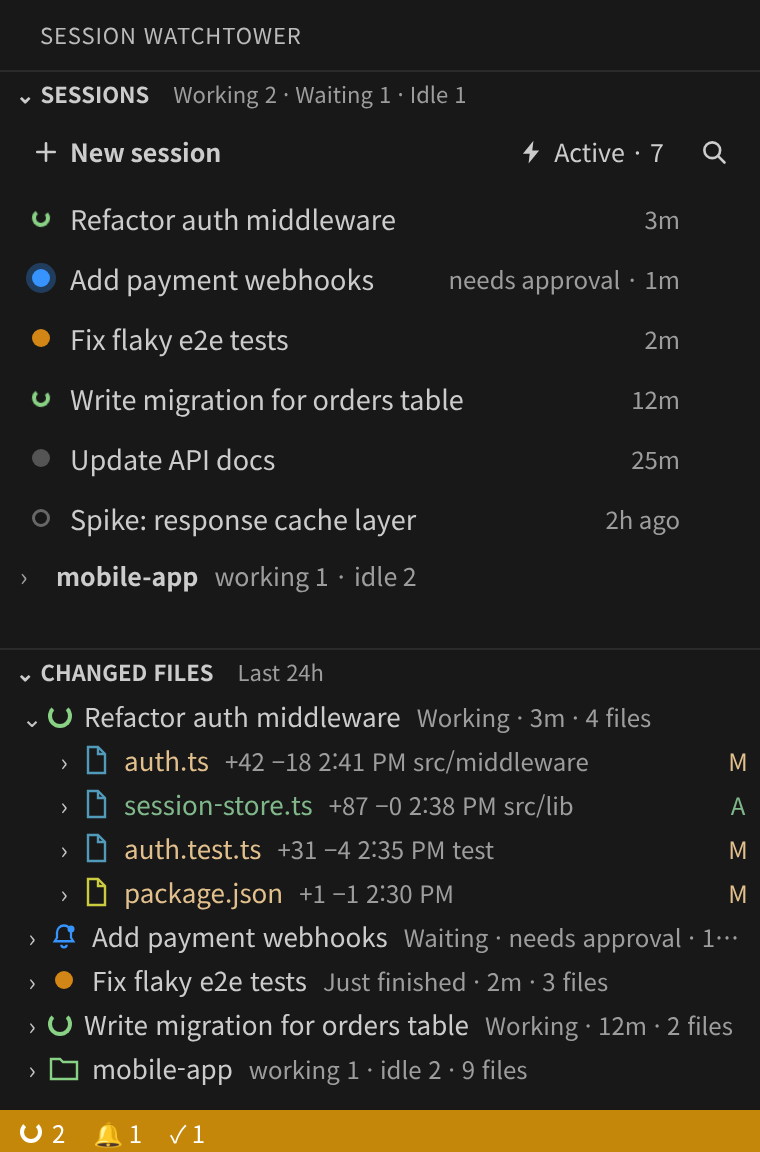
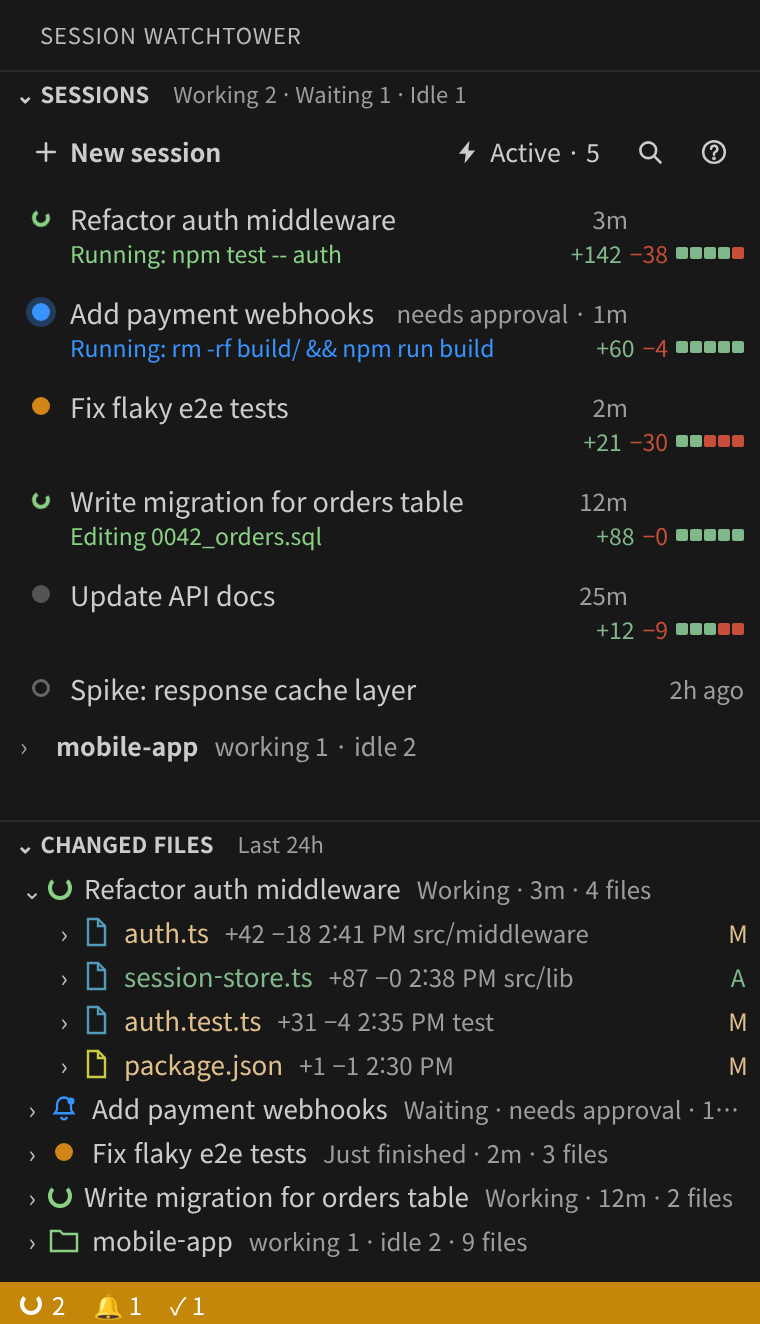
Show what each session is doing now, its change size, and a color legend
Version 0.9.0 adds a second line under working sessions and a "?" legend.

- Problem: you had to open a session to know what it was doing, and the colors were not explained anywhere.
- Cause: only the session state was shown, and finished steps could look unfinished.
- Change: show the current step (Running / Editing / Thinking) and +added/-removed lines with a small bar; add a color legend; mention Codex in the description; skip Claude Code's API request copies in the log, which had been read as new tool calls.
- Check: real session logs (finished steps now marked finished, first read back to about 4 s), dark and light theme renders, packaged with vsce 4.0.0.

diff --git a/extension.js b/extension.js
@@ -130,10 +130,35 @@ function stateOf(s) {
 }
 
 
+// "지금 하는 일": 마지막 도구 호출을 쉬운 말로(진행 중일 때만 의미가 있음)
+function activityText(a) {
+  if (!a || !a.tool) return '';
+  const arg = a.arg || '';
+  switch (a.tool) {
+    case 'Bash': case 'exec': return arg ? L('Running: {0}', arg) : L('Running a command');
+    case 'Edit': case 'Write': case 'MultiEdit': case 'NotebookEdit': case 'apply_patch': return arg ? L('Editing {0}', arg) : L('Editing files');
+    case 'Read': return arg ? L('Reading {0}', arg) : L('Reading files');
+    case 'Grep': case 'Glob': return arg ? L('Searching {0}', arg) : L('Searching');
+    case 'Agent': case 'Task': return arg ? L('Subagent: {0}', arg) : L('Running a subagent');
+    case 'WebSearch': return arg ? L('Web search: {0}', arg) : L('Searching the web');
+    case 'WebFetch': return arg ? L('Opening {0}', arg) : L('Opening a web page');
+    default: return arg ? `${a.tool}: ${arg}` : a.tool;
+  }
+}
+
+// 작업 중이면 진행 중인 도구, 도구가 끝났으면 "생각 중", 기다림이면 기다리는 도구
+function nowText(s, st) {
+  if (st.key !== 'busy' && st.key !== 'waiting') return '';
+  if (s.activity && !s.activity.done) return activityText(s.activity);
+  return st.key === 'busy' ? L('Thinking…') : '';
+}
+
 function sessionTooltip(s, st) {
+  const now = nowText(s, st);
   return [
     s.title,
     L('Status: {0}', st.label) + (s.statusSince ? ' ' + L('(since {0})', fmtTime(s.statusSince, true)) : ''),
+    now ? L('Now: {0}', now) : null,
     s.address ? L('Address: {0}', s.address) : null,
     s.cwd ? L('Folder: {0}', s.cwd) : null,
     L('Last log: {0}', fmtTime(s.lastActivity, true)),
@@ -423,11 +448,24 @@ function sessionRow(s) {
   // 제목이 잘리지 않게 오른쪽에는 시간만(상태는 점 색). 사용자가 해야 할 일이 있는 "기다림"만 글자도 붙인다.
   const meta = st.key === 'waiting' ? [st.short, st.time].filter(Boolean).join(' · ') : st.time;
   const m = model.find((x) => x.sid === s.sid);
-  return { sid: s.sid, title: s.title, state: st.key, meta, tip: sessionTooltip(s, st) + '\n' + hint, canOpen, alive: !!s.alive, codex, files: m ? m.files.length : 0 };
+  const add = m ? m.files.reduce((a, f) => a + (f.add || 0), 0) : 0;
+  const del = m ? m.files.reduce((a, f) => a + (f.del || 0), 0) : 0;
+  return {
+    sid: s.sid, title: s.title, state: st.key, meta, tip: sessionTooltip(s, st) + '\n' + hint, canOpen, alive: !!s.alive, codex,
+    files: m ? m.files.length : 0, add, del, now: nowText(s, st),
+  };
 }
 
 function sessionsPayload() {
-  const strings = { showChanges: L('Show changed files'), review: L('Review all changes'), newSession: L('New session'), active: L('Active'), search: L('Search sessions'), noMatch: L('No matching sessions') };
+  const strings = {
+    showChanges: L('Show changed files'), review: L('Review all changes'), newSession: L('New session'), active: L('Active'),
+    search: L('Search sessions'), noMatch: L('No matching sessions'), legend: L('What the colors mean'),
+    lgSessions: L('Sessions'), lgFiles: L('Changed files'), lgRow: L('Under each session'),
+    lgBusy: L('Working'), lgWaiting: L('Waiting for you (approval or answer)'), lgDone: L('Just finished (less than 10 minutes ago)'), lgIdle: L('Idle'), lgOff: L('Off (no Claude process)'),
+    lgA: L('Created in this session'), lgM: L('Modified in this session'), lgD: L('Not on disk anymore (deleted)'), lgQ: L('Guessed from shell commands (not certain)'),
+    lgNow: L('What it is doing now'), lgDiff: L('Lines added / removed in the files it changed'),
+    diffTip: L('{0} lines added, {1} removed'),
+  };
   if (!loaded) return { message: lastError ? L('Read error') : L('Reading sessions…'), detail: lastError || '', strings };
   if (!sessionsModel.length) return { message: L('No sessions in the last {0}h', cfg().lookbackHours), strings };
   const { mine, groups } = splitByFolder(sessionsModel);
@@ -493,7 +531,25 @@ function sessionsHtml(webview) {
 <meta name="viewport" content="width=device-width, initial-scale=1.0">
 <style>
   body { margin: 0; padding: 4px 0; font-family: var(--vscode-font-family); color: var(--vscode-foreground); background: transparent; }
-  .row { display: flex; align-items: center; gap: 10px; min-height: 30px; padding: 0 8px 0 16px; cursor: pointer; font-size: 13.5px; outline: none; }
+  .row { display: block; padding: 0 8px 0 16px; cursor: pointer; outline: none; }
+  .l1 { display: flex; align-items: center; gap: 10px; min-height: 30px; font-size: 13.5px; }
+  .sub { display: flex; align-items: center; gap: 8px; margin: -6px 0 0 19px; padding-bottom: 6px; min-height: 15px; font-size: 11.5px; color: var(--vscode-descriptionForeground); }
+  .now { flex: 1; min-width: 0; overflow: hidden; text-overflow: ellipsis; white-space: nowrap; }
+  .now.busy { color: var(--vscode-charts-green); }
+  .now.waiting { color: var(--vscode-charts-blue); }
+  .ds { flex-shrink: 0; display: inline-flex; align-items: center; gap: 4px; font-variant-numeric: tabular-nums; }
+  .ds .a { color: var(--vscode-gitDecoration-addedResourceForeground); }
+  .ds .d { color: var(--vscode-gitDecoration-deletedResourceForeground); }
+  .sq { display: inline-flex; gap: 1px; }
+  .sq i { display: inline-block; width: 6px; height: 6px; border-radius: 1px; background: var(--vscode-descriptionForeground); opacity: 0.3; }
+  .sq i.a { background: var(--vscode-gitDecoration-addedResourceForeground); opacity: 1; }
+  .sq i.d { background: var(--vscode-gitDecoration-deletedResourceForeground); opacity: 1; }
+  .legend { display: none; margin: 0 10px 8px; padding: 8px 10px; border: 1px solid var(--vscode-widget-border, var(--vscode-panel-border, rgba(128, 128, 128, 0.35))); border-radius: 4px; font-size: 12px; }
+  .legend.show { display: block; }
+  .legend h4 { margin: 6px 0 4px; font-size: 11px; font-weight: 600; text-transform: uppercase; letter-spacing: 0.04em; color: var(--vscode-descriptionForeground); }
+  .legend h4:first-child { margin-top: 0; }
+  .lg { display: flex; align-items: center; gap: 8px; min-height: 20px; }
+  .lg .k { width: 16px; display: inline-flex; justify-content: center; flex-shrink: 0; font-weight: 600; }
   .row:hover { background: var(--vscode-list-hoverBackground); }
   .row:focus-visible { outline: 1px solid var(--vscode-focusBorder); outline-offset: -1px; }
   .row.other { cursor: default; }
@@ -542,8 +598,10 @@ function sessionsHtml(webview) {
   <span class="spacer"></span>
   <button class="btn" id="btnActive" aria-pressed="false"><svg width="13" height="13" viewBox="0 0 16 16" fill="currentColor"><path d="M9.5 1 3 9h4.2L6.5 15 13 7H8.8z"/></svg><span id="lblActive"></span></button>
   <button class="btn" id="btnSearch"><svg width="14" height="14" viewBox="0 0 16 16" fill="none" stroke="currentColor" stroke-width="1.5" stroke-linecap="round"><circle cx="7" cy="7" r="4.5"/><path d="m10.5 10.5 3.5 3.5"/></svg></button>
+  <button class="btn" id="btnLegend" aria-pressed="false"><svg width="14" height="14" viewBox="0 0 16 16" fill="none" stroke="currentColor" stroke-width="1.4" stroke-linecap="round"><circle cx="8" cy="8" r="6.2"/><path d="M6.3 6.2a1.8 1.8 0 1 1 2.5 1.7c-.5.2-.8.6-.8 1.1v.5"/><circle cx="8" cy="11.6" r=".4" fill="currentColor"/></svg></button>
 </div>
 <div class="search" id="searchBox"><input id="q" type="text" autocomplete="off" spellcheck="false"></div>
+<div class="legend" id="legend"></div>
 <div id="root" role="list"></div>
 <script nonce="${n}">
 (function () {
@@ -575,19 +633,61 @@ function sessionsHtml(webview) {
   q.addEventListener('input', () => { saved.q = q.value; save(); if (last) render(last); });
   q.addEventListener('keydown', (e) => { if (e.key === 'Escape') { q.value = ''; saved.q = ''; saved.searchOpen = false; box.classList.remove('show'); save(); if (last) render(last); } });
   const reviewIcon = '<svg width="16" height="16" viewBox="0 0 16 16" fill="none" stroke="currentColor" stroke-width="1.3" stroke-linejoin="round"><path d="M4.5 1.5h5l2.5 2.5v6.5h-7.5z"/><path d="M2.5 4v10.5h7"/><path d="M6.5 6h3.5M6.5 8.3h3.5"/></svg>';
+  // 변경 규모: +줄 −줄과 다섯 칸 막대(초록=추가, 빨강=삭제 비율)
+  function diffstat(add, del) {
+    if (!add && !del) return '';
+    const tot = add + del;
+    const green = Math.round((5 * add) / tot);
+    const red = Math.min(5 - green, Math.round((5 * del) / tot));
+    let sq = '';
+    for (let i = 0; i < 5; i++) sq += '<i class="' + (i < green ? 'a' : i < green + red ? 'd' : '') + '"></i>';
+    const tip = String(strings.diffTip || '').replace('{0}', add).replace('{1}', del);
+    return '<span class="ds" title="' + esc(tip) + '"><span class="a">+' + add + '</span><span class="d">−' + del + '</span><span class="sq">' + sq + '</span></span>';
+  }
   function row(r) {
     const acts = r.files
       ? '<button class="act" data-act="review" data-sid="' + esc(r.sid) + '" title="' + esc(strings.review) + '" aria-label="' + esc(strings.review) + '">' + reviewIcon + '</button>'
         + '<button class="act" data-act="reveal" data-sid="' + esc(r.sid) + '" title="' + esc(strings.showChanges) + '" aria-label="' + esc(strings.showChanges) + '">' + icon + '</button>'
       : '';
+    const ds = diffstat(r.add || 0, r.del || 0);
+    // 둘째 줄: 지금 하는 일(작업 중·기다림일 때)과 변경 규모. 둘 다 없으면 한 줄짜리
+    const sub = r.now || ds ? '<div class="sub"><span class="now ' + esc(r.state) + '">' + esc(r.now) + '</span>' + ds + '</div>' : '';
     return '<div class="row' + (r.canOpen ? '' : ' other') + '" role="listitem" tabindex="0" data-sid="' + esc(r.sid) + '" data-open="' + (r.canOpen ? '1' : '') + '" title="' + esc(r.tip) + '">'
-      + '<span class="dot ' + esc(r.state) + '"></span><span class="title">' + esc(r.title) + '</span>'
+      + '<div class="l1"><span class="dot ' + esc(r.state) + '"></span><span class="title">' + esc(r.title) + '</span>'
       + (r.codex ? '<span class="tag">Codex</span>' : '')
-      + '<span class="meta">' + esc(r.meta) + '</span>' + acts + '</div>';
+      + '<span class="meta">' + esc(r.meta) + '</span>' + acts + '</div>' + sub + '</div>';
+  }
+  // 색 범례(? 단추)
+  const legendBox = document.getElementById('legend');
+  const btnLegend = document.getElementById('btnLegend');
+  if (saved.legendOpen) legendBox.classList.add('show');
+  btnLegend.addEventListener('click', () => {
+    saved.legendOpen = !legendBox.classList.contains('show');
+    legendBox.classList.toggle('show', saved.legendOpen);
+    btnLegend.classList.toggle('on', saved.legendOpen);
+    btnLegend.setAttribute('aria-pressed', String(saved.legendOpen));
+    save();
+  });
+  function renderLegend() {
+    const s = strings;
+    const lg = (k, text) => '<div class="lg"><span class="k">' + k + '</span><span>' + esc(text) + '</span></div>';
+    const mark = (ch, v) => '<span style="color:var(--vscode-gitDecoration-' + v + ')">' + ch + '</span>';
+    legendBox.innerHTML = '<h4>' + esc(s.lgSessions) + '</h4>'
+      + lg('<span class="dot busy"></span>', s.lgBusy) + lg('<span class="dot waiting"></span>', s.lgWaiting) + lg('<span class="dot done"></span>', s.lgDone)
+      + lg('<span class="dot idle"></span>', s.lgIdle) + lg('<span class="dot off"></span>', s.lgOff)
+      + '<h4>' + esc(s.lgRow) + '</h4>'
+      + lg('<span style="color:var(--vscode-charts-green)">&#9656;</span>', s.lgNow) + lg('<span class="sq"><i class="a"></i><i class="d"></i></span>', s.lgDiff)
+      + '<h4>' + esc(s.lgFiles) + '</h4>'
+      + lg(mark('A', 'addedResourceForeground'), s.lgA) + lg(mark('M', 'modifiedResourceForeground'), s.lgM)
+      + lg(mark('D', 'deletedResourceForeground'), s.lgD) + lg(mark('?', 'ignoredResourceForeground'), s.lgQ);
+    btnLegend.title = s.legend || '';
+    btnLegend.setAttribute('aria-label', s.legend || '');
+    btnLegend.classList.toggle('on', !!saved.legendOpen);
   }
   function render(p) {
     last = p;
     strings = p.strings || {};
+    renderLegend();
     document.getElementById('lblNew').textContent = strings.newSession || '';
     btnSearch.title = strings.search || '';
     btnSearch.setAttribute('aria-label', strings.search || '');
@@ -1045,7 +1145,8 @@ function updateStatusBar() {
   md.appendMarkdown('**Session Watchtower**\n\n');
   const line = (icon, label, list) => {
     if (!list.length) return;
-    const names = list.slice(0, 8).map((s) => (s.title || s.sid.slice(0, 8)).replace(/[\\`*_[\]<>|]/g, ' ')).join(', ');
+    const clean = (t) => String(t || '').replace(/[\\`*_[\]<>|]/g, ' ');
+    const names = list.slice(0, 8).map((s) => clean(s.title || s.sid.slice(0, 8)) + (s.activity && !s.activity.done ? ' — ' + clean(activityText(s.activity)) : '')).join(', ');
     md.appendMarkdown(`$(${icon}) **${label}** (${list.length}): ${names}${list.length > 8 ? ' …' : ''}\n\n`);
   };
   line('bell-dot', L('Waiting'), groups.waiting);

diff --git a/scanner.js b/scanner.js
@@ -12,7 +12,7 @@ const HOME = os.homedir();
 const PROJECTS = path.join(HOME, '.claude', 'projects');
 const REGISTRY = path.join(HOME, '.claude', 'sessions');
 const CODEX_SESSIONS = path.join(HOME, '.codex', 'sessions');
-const CACHE_VERSION = 2;
+const CACHE_VERSION = 3; // 3: 도구 호출(lastTool·events) 추가 — 옛 저장 파일은 버리고 한 번 새로 읽음
 const CACHE_SAVE_MS = 20000;
 const CODEX_ACTIVE_MS = 90000;
 const CHUNK = 4 * 1024 * 1024;
@@ -26,6 +26,33 @@ const K_FILEPATH = B('"filePath"');
 const K_BASHDIFF = B('"bashEditDiff"');
 const K_GITOP = B('"gitOperation"');
 const K_BASHUSE = B('"name":"Bash"');
+const K_TOOLUSE = B('"type":"tool_use"');
+const K_ASSISTANT = B('"type":"assistant"');
+// Claude Code가 남기는 API 요청 사본(api-request·api-request-blob)에는 이전 대화가 통째로 다시 들어 있어
+// 도구 호출을 두 번 세거나 끝난 도구를 "진행 중"으로 되돌린다 → 줄 머리에서 보고 건너뛴다
+const K_APIREQ = B('"type":"api-request');
+
+// "지금 하는 일" 한 줄에 쓸 도구 입력 요약(파일 이름·명령 설명 등 짧게)
+function summarizeInput(name, input) {
+  const i = input && typeof input === 'object' ? input : {};
+  const one = (s) => String(s || '').split('\n')[0].replace(/\s+/g, ' ').trim().slice(0, 80);
+  const base = (p) => (p ? path.basename(String(p)) : '');
+  switch (name) {
+    case 'Bash': return one(i.description || i.command);
+    case 'Edit': case 'Write': case 'MultiEdit': case 'Read': return base(i.file_path);
+    case 'NotebookEdit': return base(i.notebook_path || i.file_path);
+    case 'Grep': case 'Glob': return one(i.pattern);
+    case 'Agent': case 'Task': return one(i.description || i.subagent_type);
+    case 'WebSearch': return one(i.query);
+    case 'WebFetch': try { return new URL(String(i.url)).host; } catch { return ''; }
+    case 'Skill': return one(i.skill);
+    default: return '';
+  }
+}
+
+function noteTool(st, tool) {
+  st.lastTool = tool;
+}
 const K_TOOLUSEID = B('"tool_use_id":"');
 const K_CUSTOM = B('"type":"custom-title"');
 const K_AI = B('"type":"ai-title"');
@@ -227,6 +254,7 @@ function newFileState(d) {
     commitWins: [],
     seenSha: new Set(),
     userChecked: 0,
+    lastTool: null,
   };
 }
 
@@ -400,7 +428,9 @@ function handleCodexLine(st, line, absOffset) {
   if (p.name === 'apply_patch') {
     const text = codexPatchText(p);
     if (!text) return;
-    parsePatch(text, st.curCwd || st.cwd).forEach((f, i) => {
+    const parts = parsePatch(text, st.curCwd || st.cwd);
+    noteTool(st, { id: null, tool: 'apply_patch', arg: parts[0] ? path.basename(parts[0].path) : '', ts, done: true });
+    parts.forEach((f, i) => {
       pushChange(st, {
         kind: 'cxedit', path: f.path, ts, add: f.add, del: f.del, created: f.op === 'Add', deleted: f.op === 'Delete',
         offset: absOffset, length: len, idx: i,
@@ -410,6 +440,7 @@ function handleCodexLine(st, line, absOffset) {
   }
   const ex = codexCommand(p);
   if (ex && ex.cmd) {
+    noteTool(st, { id: null, tool: 'exec', arg: String(ex.cmd).split('\n')[0].replace(/\s+/g, ' ').trim().slice(0, 80), ts, done: false });
     const cwd = ex.cwd || st.curCwd || st.cwd;
     for (const t of shellTargets(ex.cmd, cwd)) {
       let s;
@@ -424,6 +455,7 @@ function handleLine(st, line, absOffset) {
   if (st.agent === 'codex') return handleCodexLine(st, line, absOffset);
   const len = line.length;
   if (len < 2) return;
+  if (line.subarray(0, 48).indexOf(K_APIREQ) >= 0) return;
 
   if (!st.sub && (line.indexOf(K_CUSTOM) >= 0 || line.indexOf(K_AI) >= 0) && len < 20000) {
     try {
@@ -436,6 +468,7 @@ function handleLine(st, line, absOffset) {
 
   if (line.indexOf(K_RESULT) >= 0) {
     const id = extractToolUseId(line);
+    if (id && st.lastTool && st.lastTool.id === id) st.lastTool.done = true;
     const bash = id ? st.pendingBash.get(id) : null;
     if (bash) {
       st.pendingBash.delete(id);
@@ -509,15 +542,20 @@ function handleLine(st, line, absOffset) {
     return;
   }
 
-  if (line.indexOf(K_BASHUSE) >= 0) {
+  // 도구 호출 줄: 지금 하는 일(마지막 도구)·활동 흐름(호출 시각)·셸 명령 대기 목록
+  if (line.indexOf(K_TOOLUSE) >= 0 && line.indexOf(K_ASSISTANT) >= 0 && (line.indexOf(K_BASHUSE) >= 0 || len < 400000)) {
     let o;
     try { o = JSON.parse(line.toString('utf8')); } catch { return; }
+    if (o.type !== 'assistant') return;
     if (o.cwd && !st.cwd) st.cwd = o.cwd;
+    const ts = Date.parse(o.timestamp) || st.mtimeMs;
     const c = o.message && Array.isArray(o.message.content) ? o.message.content : [];
     for (const x of c) {
-      if (x && x.type === 'tool_use' && x.name === 'Bash' && x.id) {
+      if (!x || x.type !== 'tool_use' || !x.id) continue;
+      noteTool(st, { id: x.id, tool: String(x.name || ''), arg: summarizeInput(x.name, x.input), ts, done: false });
+      if (x.name === 'Bash') {
         const full = String((x.input && x.input.command) || '');
-        st.pendingBash.set(x.id, { full, cmd: shortCmd(full), cwd: o.cwd || st.cwd, ts: Date.parse(o.timestamp) || st.mtimeMs });
+        st.pendingBash.set(x.id, { full, cmd: shortCmd(full), cwd: o.cwd || st.cwd, ts });
       }
     }
     return;
@@ -921,6 +959,11 @@ function createModel() {
         statusSince: codex ? (codexActive ? lastActivity : null) : reg ? reg.statusSince : null,
       };
       if (!codex) state = applyMarker(state, attentionMarker(opts.attentionDir, sid), lastActivity);
+      // 지금 하는 일: 본 세션·하위 에이전트 중 가장 최근 도구 호출
+      let activity = null;
+      for (const st of sts) {
+        if (st.lastTool && (!activity || st.lastTool.ts > activity.ts)) activity = st.lastTool;
+      }
       sessions.push({
         sid, title, titleSource,
         agent: main.agent || 'claude',
@@ -929,6 +972,7 @@ function createModel() {
         cwd: projectCwd,
         lastActivity,
         ...state,
+        activity,
         changes,
       });
     }

diff --git a/worker.js b/worker.js
@@ -7,7 +7,7 @@ const model = createModel();
 let lastSig = '';
 
 function signature(sessions) {
-  return sessions.map((s) => `${s.sid}:${s.lastActivity}:${s.changes.length}:${s.status}:${s.waitingFor}:${s.statusSince}:${s.alive}:${s.title}`).join('|');
+  return sessions.map((s) => `${s.sid}:${s.lastActivity}:${s.changes.length}:${s.status}:${s.waitingFor}:${s.statusSince}:${s.alive}:${s.title}:${s.activity ? s.activity.ts + (s.activity.done ? 'd' : 'p') : ''}`).join('|');
 }
 
 parentPort.on('message', (msg) => {

diff --git a/README.md b/README.md
@@ -11,6 +11,7 @@
 ## Features
 
 - **Session status at a glance** — a roomy list in the same colors as Claude Code's session list: green working, blue waiting for your approval or answer, orange just finished, grey idle, hollow off — plus how long it has been in that state. Sessions in the current folder come first; sessions from other folders are grouped and collapsed below. A badge counts sessions that are waiting for you.
+- **What it is doing now** — under a working or waiting session, a short line such as *Running: npm test* or *Editing README.md*, plus the size of its changes (`+142 −38` with a small green/red bar). The **?** button explains every color. Works in dark and light themes.
 - **Changed files per session** — edits from Claude's Edit/Write tools, shell commands and git commits, with `+added −removed` line counts and times. Click a file to open a diff.
 - **Review a whole session** — one click opens every file the session changed in a single multi-file diff. For files changed only with edit tools or commits, the right side is the file as the session left it, so other sessions' later edits don't get mixed in.
 - **Status bar summary** — working · waiting · just finished counts are always visible at the bottom; it turns to a warning color while a session waits for you.

diff --git a/CHANGELOG.md b/CHANGELOG.md
@@ -1,5 +1,14 @@
 # Changelog
 
+## 0.9.0
+
+- **What it is doing now**: working and waiting sessions show their current step (*Running: …*, *Editing …*, *Thinking…*) on a second line; also in tooltips and the status bar tooltip.
+- **Change size** per session: `+added −removed` and a five-square green/red bar.
+- **Color legend** behind a new **?** button in the Sessions view.
+- Checked in light themes.
+- Description and keywords now mention Codex.
+- Fixed: Claude Code's API request copies in the log were read as new tool calls, which made finished steps look unfinished and slowed the first read.
+
 ## 0.8.0
 
 - **Review all changes**: one click opens every file a session changed in a multi-file diff. Edit-tool and commit-only files now compare against the file as the session left it, so other sessions' later edits don't get mixed in.
